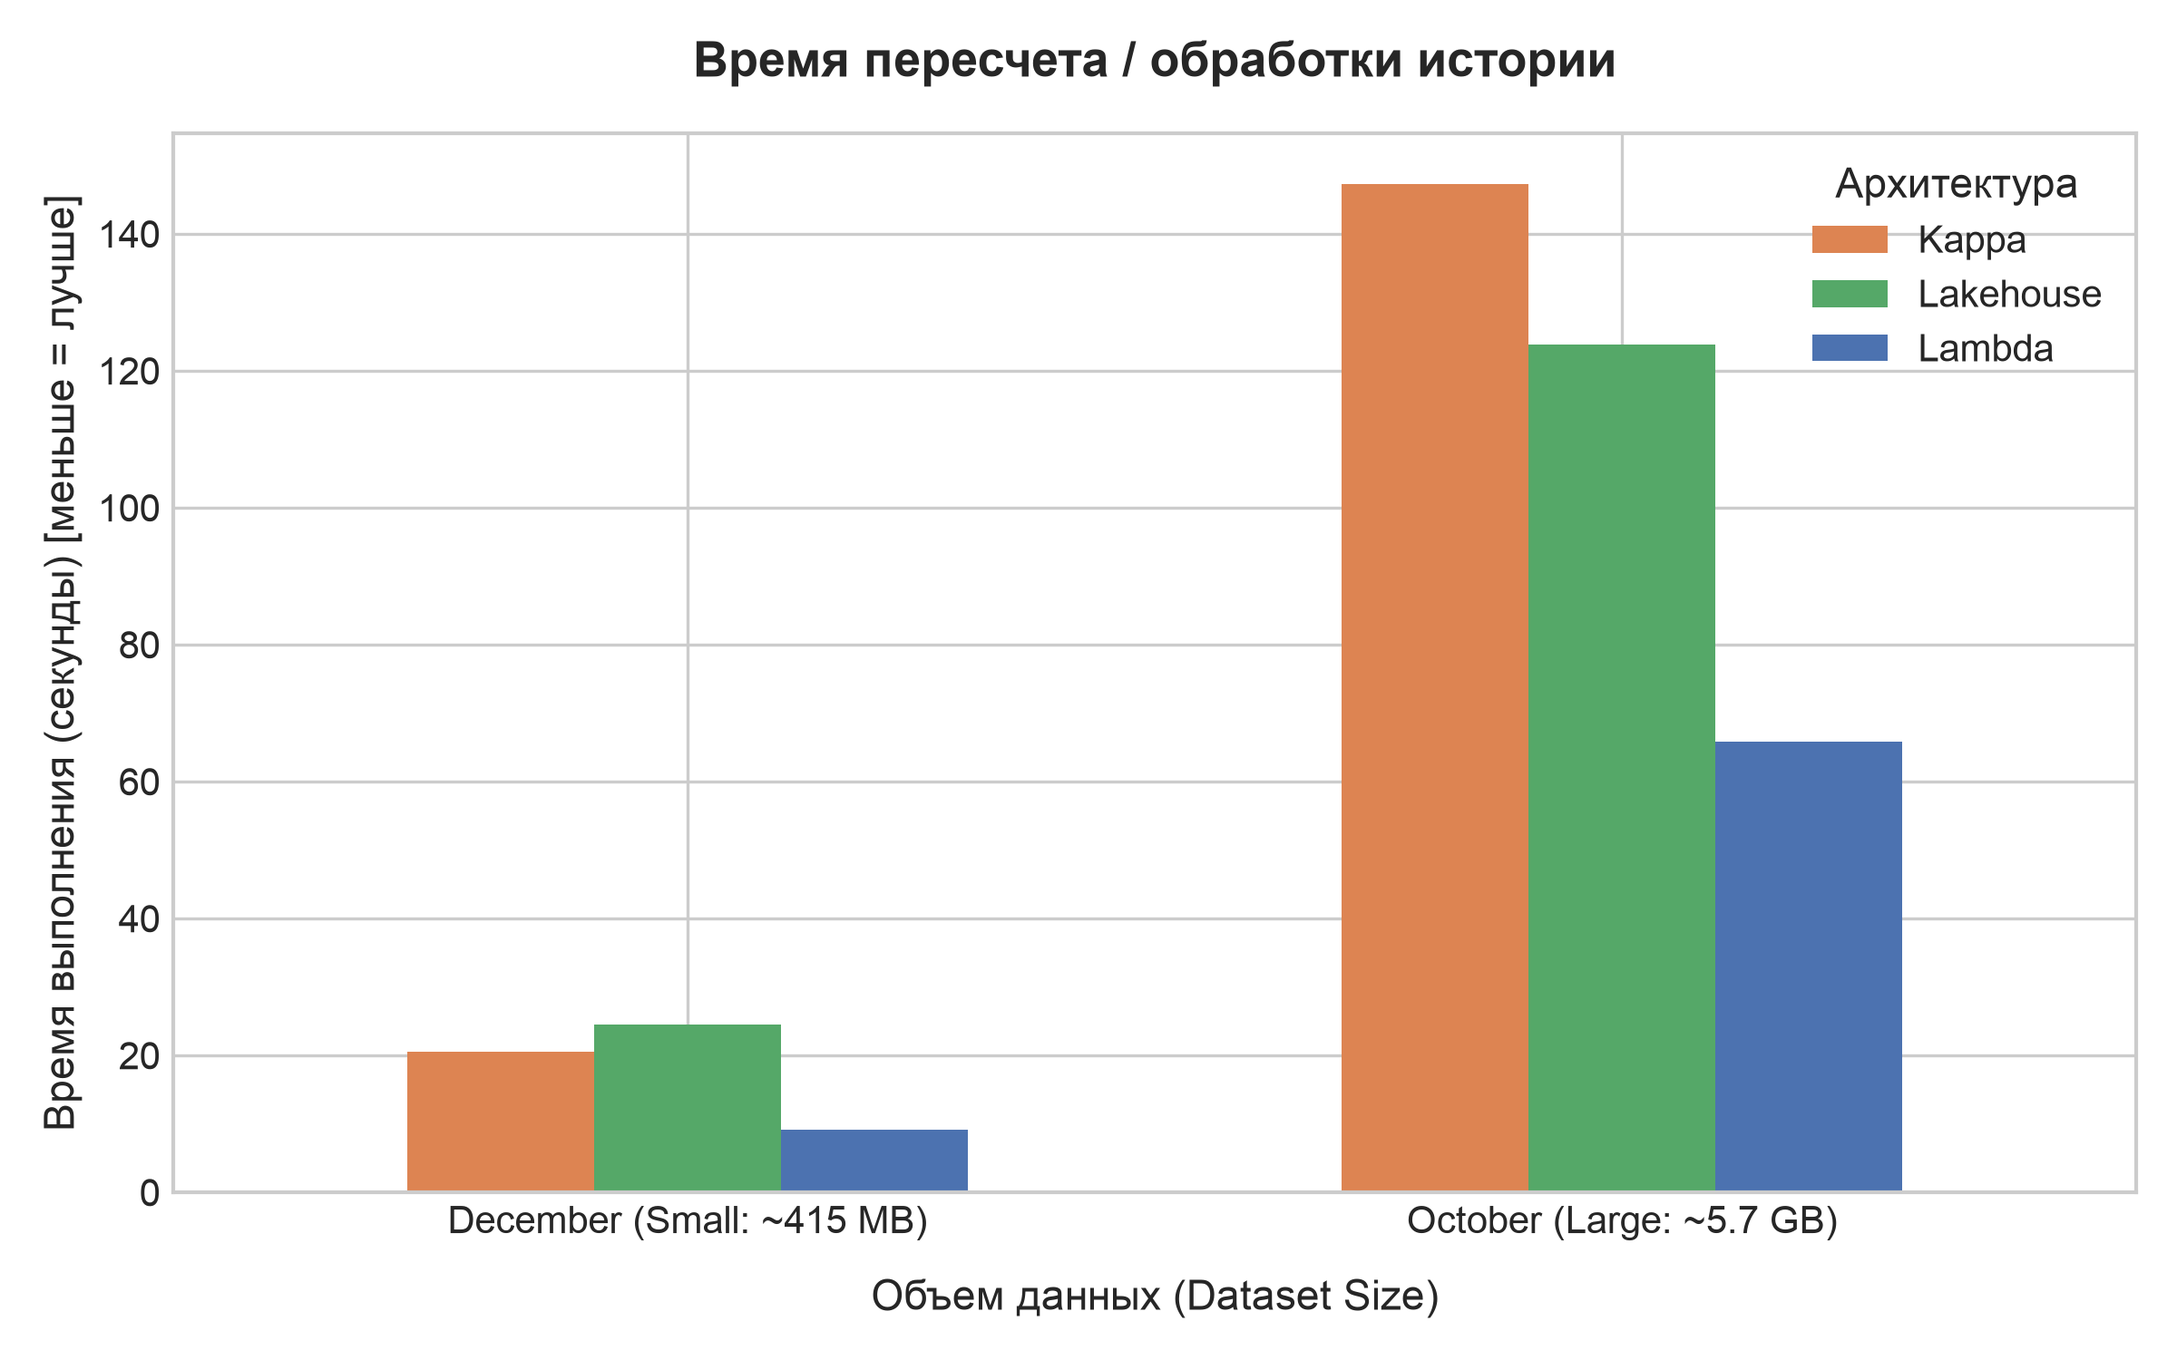
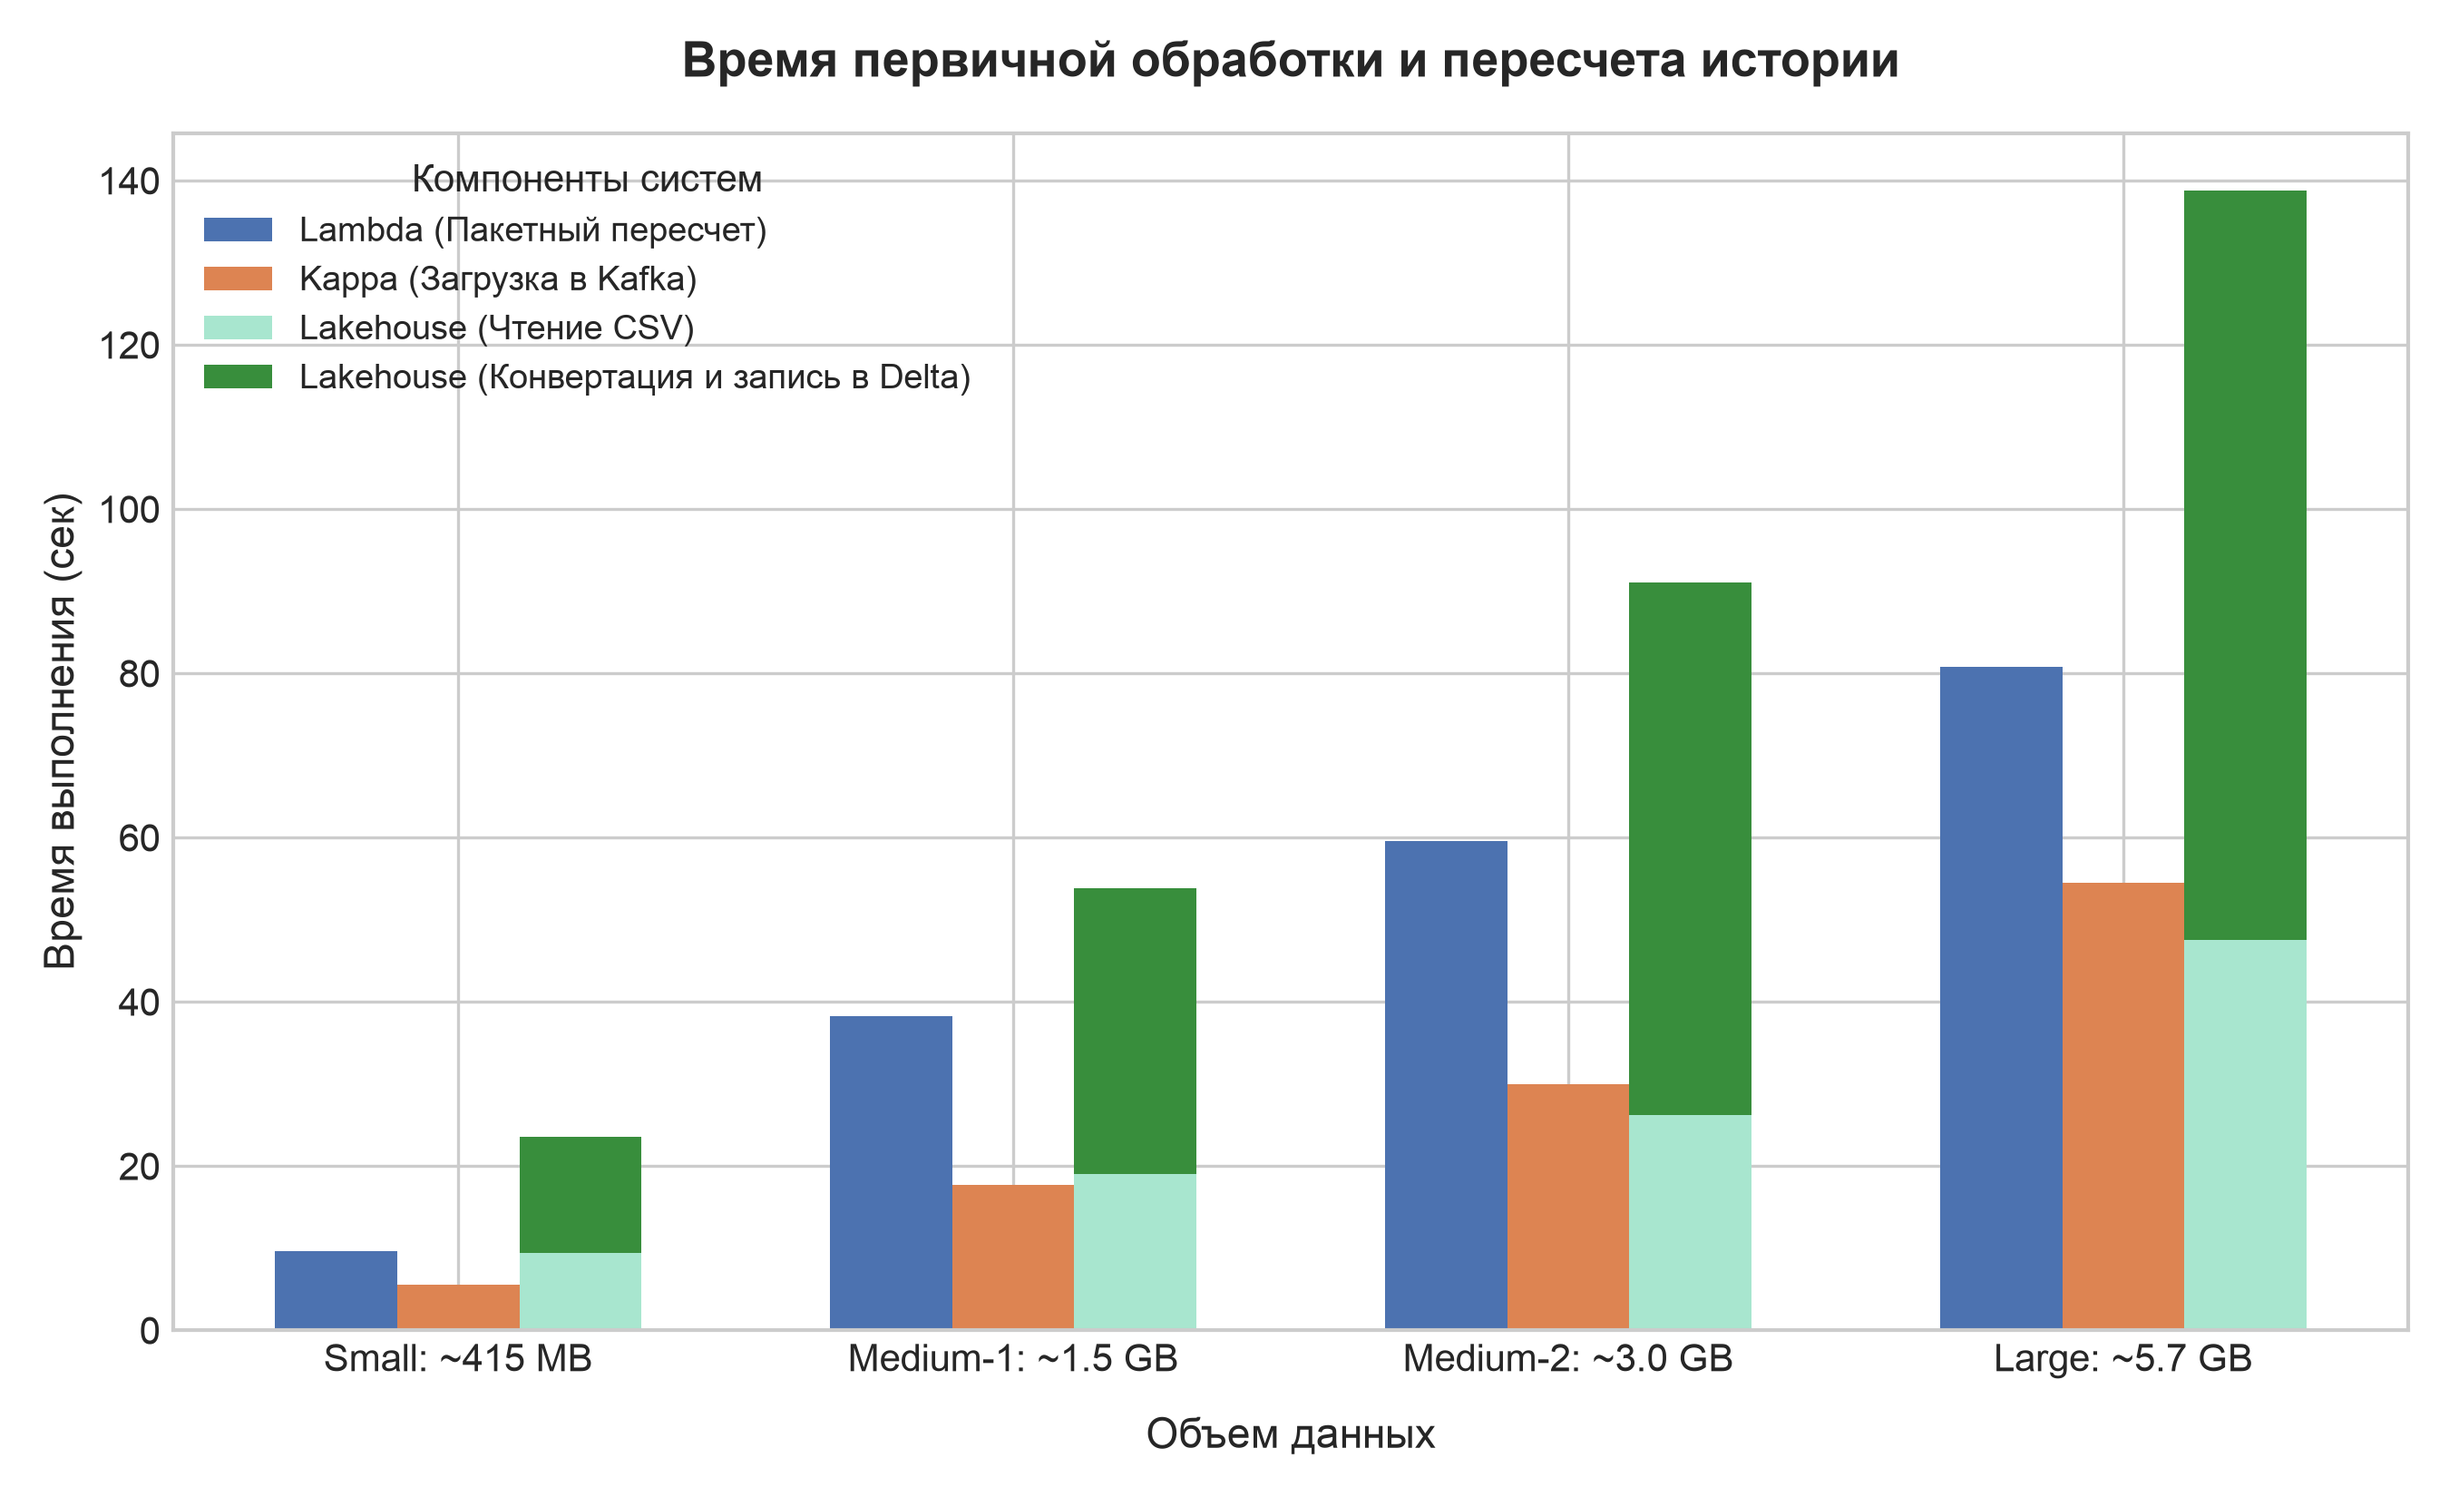
update plots

diff --git a/data/plots/benchmark_table.md b/data/plots/benchmark_table.md
@@ -1,8 +1,14 @@
-| Масштаб данных   | Архитектура   | Загрузка истории   | Пересчет истории   | Задержка Serving-запроса   |
-|:-----------------|:--------------|:-------------------|:-------------------|:---------------------------|
-| Small            | Lambda        | 9.10 сек           | 7.49 сек           | 194.3 мс                   |
-| Small            | Kappa         | 7.36 сек           | 20.51 сек          | 23.9 мс                    |
-| Small            | Lakehouse     | 24.58 сек          | N/A                | 2066.9 мс                  |
-| Large            | Lambda        | 65.79 сек          | 62.39 сек          | 411.5 мс                   |
-| Large            | Kappa         | 46.53 сек          | 147.33 сек         | 63.5 мс                    |
-| Large            | Lakehouse     | 123.86 сек         | N/A                | 6784.3 мс                  |
+| Масштаб данных   | Архитектура   | Загрузка истории                             | Пересчет истории   | Задержка Serving-запроса   |
+|:-----------------|:--------------|:---------------------------------------------|:-------------------|:---------------------------|
+| Small            | Lambda        | 9.66 сек                                     | 7.27 сек           | 119.1 мс                   |
+| Small            | Kappa         | 5.54 сек                                     | 30.33 сек          | 31.4 мс                    |
+| Small            | Lakehouse     | 23.60 сек (9.38 с чтение / 14.22 с запись)   | N/A                | 2832.0 мс                  |
+| Medium-1         | Lambda        | 38.31 сек                                    | 28.97 сек          | 241.7 мс                   |
+| Medium-1         | Kappa         | 17.75 сек                                    | 78.66 сек          | 32.4 мс                    |
+| Medium-1         | Lakehouse     | 53.90 сек (19.08 с чтение / 34.81 с запись)  | N/A                | 4167.3 мс                  |
+| Medium-2         | Lambda        | 59.59 сек                                    | 49.52 сек          | 254.2 мс                   |
+| Medium-2         | Kappa         | 29.97 сек                                    | 71.27 сек          | 30.9 мс                    |
+| Medium-2         | Lakehouse     | 96.69 сек (26.17 с чтение / 64.89 с запись)  | N/A                | 6634.6 мс                  |
+| Large            | Lambda        | 80.81 сек                                    | 78.41 сек          | 838.1 мс                   |
+| Large            | Kappa         | 54.46 сек                                    | 218.19 сек         | 23.1 мс                    |
+| Large            | Lakehouse     | 138.82 сек (47.55 с чтение / 91.27 с запись) | N/A                | 7174.9 мс                  |
